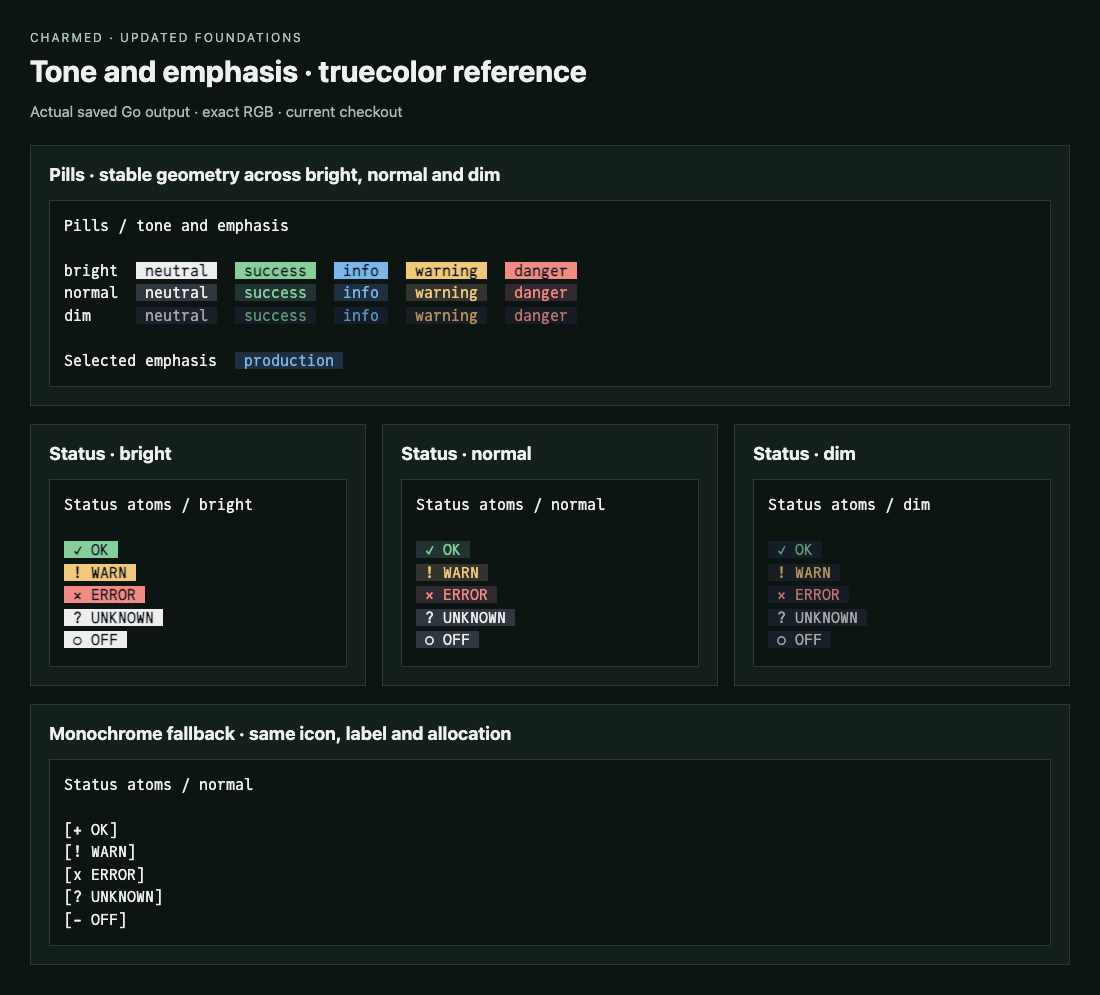
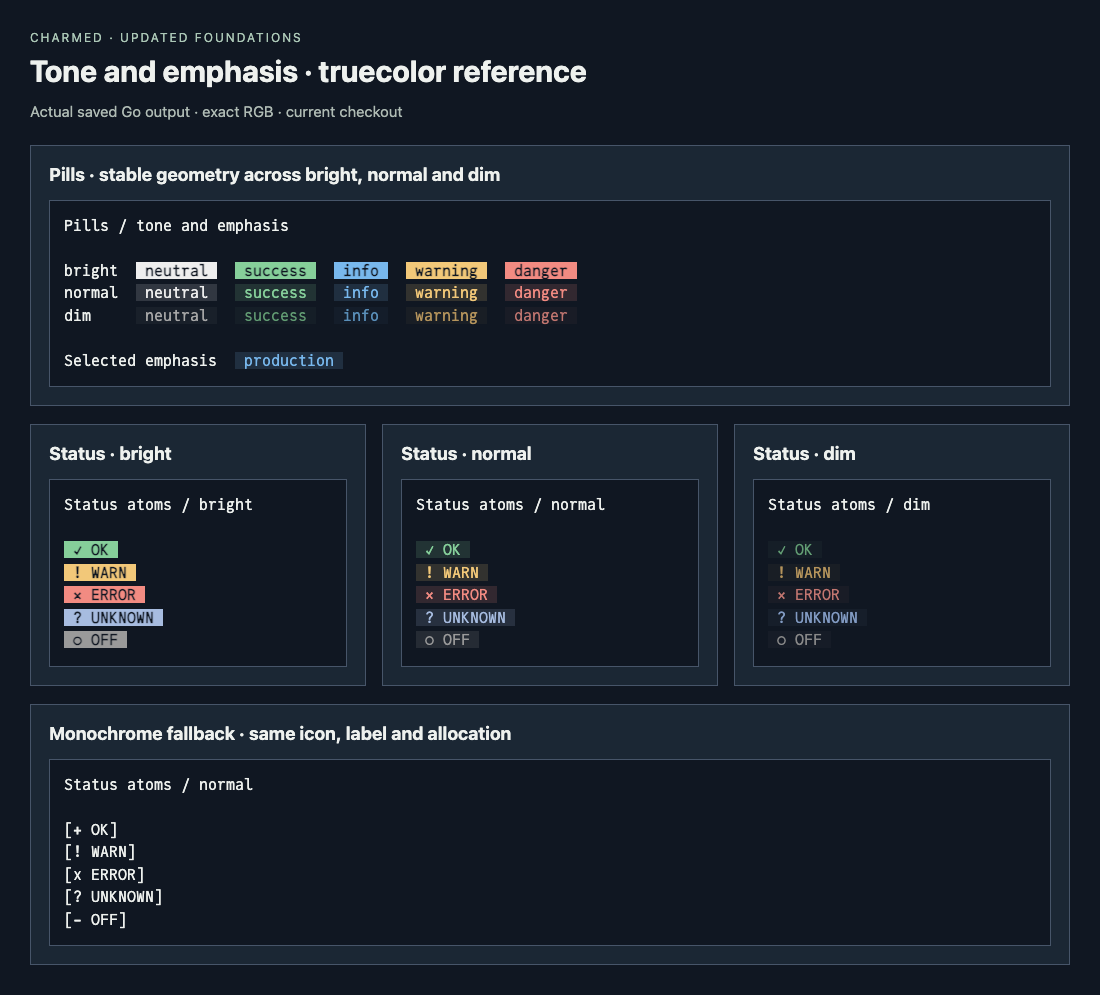
fix(feedback): distinguish unknown and off
Use cool slate-blue tokens for uncertainty and achromatic gray tokens for inactivity across bright, normal and dim status pills. Preserve existing glyphs, labels, spacing and custom-theme fallbacks.

Detected-By: user

Changed region(s): [[0.0309, 0.592, 0.1545, 0.6543], [0.4018, 0.592, 0.4636, 0.6543], [0.7418, 0.592, 0.7727, 0.6231]]

diff --git a/theme/theme.go b/theme/theme.go
@@ -24,6 +24,7 @@ type Theme struct {
 	Background, Surface, Foreground, Muted, Border, Accent    color.Color
 	SelectionBackground                                       color.Color
 	Success, Info, Warning, Danger                            color.Color
+	Unknown, Inactive, DimUnknown, DimInactive                color.Color
 	DimForeground, DimSuccess, DimInfo, DimWarning, DimDanger color.Color
 	Series                                                    []color.Color
 }
@@ -38,6 +39,8 @@ func New(mode Mode) Theme {
 		t.Success, t.Warning, t.Danger = hex("#166534"), hex("#92400e"), hex("#b91c1c")
 		t.Info = hex("#1d4ed8")
 		t.SelectionBackground = hex("#d1e8e3")
+		t.Unknown, t.Inactive = hex("#475e86"), hex("#626262")
+		t.DimUnknown, t.DimInactive = hex("#5c6e8a"), hex("#666666")
 		t.DimForeground, t.DimSuccess, t.DimInfo, t.DimWarning, t.DimDanger = hex("#526176"), hex("#477451"), hex("#526fa8"), hex("#8a6841"), hex("#a05b5b")
 		t.Series = colors("#6654ad", "#3568b0", "#a3497f", "#8c663d", "#575ba6")
 	case Contrast:
@@ -47,6 +50,8 @@ func New(mode Mode) Theme {
 		t.Success, t.Warning, t.Danger = hex("#86efac"), hex("#fde047"), hex("#fca5a5")
 		t.Info = hex("#93c5fd")
 		t.SelectionBackground = hex("#1c4245")
+		t.Unknown, t.Inactive = hex("#b7c9ed"), hex("#b0b0b0")
+		t.DimUnknown, t.DimInactive = hex("#8da4cb"), hex("#929292")
 		t.DimForeground, t.DimSuccess, t.DimInfo, t.DimWarning, t.DimDanger = hex("#c0c0c0"), hex("#6cbe80"), hex("#739ac7"), hex("#c5b75a"), hex("#d48282")
 		t.Series = colors("#c8b4ff", "#9ac2ff", "#f4b0d8", "#e8c49a", "#abb6ff")
 	case Mono:
@@ -61,6 +66,8 @@ func New(mode Mode) Theme {
 		t.Success, t.Warning, t.Danger = hex("#86cf9a"), hex("#f2c879"), hex("#f28b82")
 		t.Info = hex("#78b8ed")
 		t.SelectionBackground = hex("#24433f")
+		t.Unknown, t.Inactive = hex("#a7bce0"), hex("#9a9a9a")
+		t.DimUnknown, t.DimInactive = hex("#829bc3"), hex("#898989")
 		t.DimForeground, t.DimSuccess, t.DimInfo, t.DimWarning, t.DimDanger = hex("#a8a8a8"), hex("#629c73"), hex("#5a8fb9"), hex("#b5945c"), hex("#c17670")
 		t.Series = colors("#b9a7f5", "#87b5f9", "#e49ac2", "#d7b58b", "#8f9de8")
 	}

diff --git a/feedback/status_test.go b/feedback/status_test.go
@@ -1,9 +1,11 @@
 package feedback_test
 
 import (
+	"image/color"
 	"strings"
 	"testing"
 
+	uv "github.com/charmbracelet/ultraviolet"
 	"github.com/charmbracelet/x/ansi"
 	"github.com/lanej/charmed/attention"
 	"github.com/lanej/charmed/feedback"
@@ -29,6 +31,39 @@ func TestStatusAtomsKeepUnavailableAndDisabledDistinct(t *testing.T) {
 		palette := theme.New(mode)
 		if feedback.Attention(attention.Off, palette) != "" || !strings.Contains(ansi.Strip(feedback.Attention(attention.Unknown, palette)), "UNKNOWN") {
 			t.Fatal("off and unknown attention states were conflated")
+		}
+	}
+}
+
+func TestUnknownIsCoolAndOffIsAchromaticAtEveryEmphasis(t *testing.T) {
+	for _, mode := range []theme.Mode{theme.Dark, theme.Light, theme.Contrast} {
+		palette := theme.New(mode)
+
+		for _, emphasis := range []text.Emphasis{text.Bright, text.Normal, text.Dim} {
+			colors := make([]color.Color, 0, 2)
+
+			for _, status := range []feedback.Status{feedback.Unknown, feedback.Off} {
+				cells := uv.NewStyledString(status.View(emphasis, palette)).Lines(ansi.GraphemeWidth)[0]
+				if emphasis == text.Bright {
+					colors = append(colors, cells[1].Style.Bg)
+				} else {
+					colors = append(colors, cells[1].Style.Fg)
+				}
+			}
+
+			if colors[0] == nil || colors[1] == nil {
+				t.Fatalf("%s %s status color disappeared", mode, emphasis)
+			}
+
+			r, _, b, _ := colors[0].RGBA()
+			if b <= r {
+				t.Fatalf("%s %s UNKNOWN lost its cool hue", mode, emphasis)
+			}
+
+			r, g, b, _ := colors[1].RGBA()
+			if r != g || g != b {
+				t.Fatalf("%s %s OFF must remain achromatic", mode, emphasis)
+			}
 		}
 	}
 }

diff --git a/theme/foundations_test.go b/theme/foundations_test.go
@@ -35,7 +35,7 @@ func TestDimTokensRemainReadableAndSeriesDoNotAliasSemanticRoles(t *testing.T) {
 			t.Fatalf("%s selection surface makes nested plain text unreadable", mode)
 		}
 
-		for _, dim := range []color.Color{palette.DimForeground, palette.DimSuccess, palette.DimInfo, palette.DimWarning, palette.DimDanger} {
+		for _, dim := range []color.Color{palette.DimForeground, palette.DimSuccess, palette.DimInfo, palette.DimWarning, palette.DimDanger, palette.DimUnknown, palette.DimInactive} {
 			value := luminance(dim)
 
 			ratio := (max(value, background) + .05) / (min(value, background) + .05)
@@ -45,7 +45,7 @@ func TestDimTokensRemainReadableAndSeriesDoNotAliasSemanticRoles(t *testing.T) {
 		}
 
 		for i, series := range palette.Series {
-			for _, semantic := range []color.Color{palette.Accent, palette.Success, palette.Info, palette.Warning, palette.Danger} {
+			for _, semantic := range []color.Color{palette.Accent, palette.Success, palette.Info, palette.Warning, palette.Danger, palette.Unknown, palette.Inactive} {
 				if color.NRGBAModel.Convert(series) == color.NRGBAModel.Convert(semantic) {
 					t.Fatalf("%s series %d aliases a semantic token", mode, i)
 				}

diff --git a/story/foundations.go b/story/foundations.go
@@ -34,10 +34,14 @@ func themeStory(e Environment) (runtime.Scene, error) {
 	return static(func(size layout.Size) string {
 		t := e.Config.Palette()
 
-		rows := []string{title("Semantic tokens / normal and dim", e), t.Text().Render("Primary content"), t.Subtle().Render("Supporting information"), t.Heading().Render("Accent / interaction"), ""}
+		rows := []string{"Semantic tokens / normal and dim", "", t.Text().Render("Primary content"), t.Subtle().Render("Supporting information"), t.Heading().Render("Accent / interaction"), ""}
 		for _, tone := range []text.Tone{text.Neutral, text.Success, text.Info, text.Warning, text.Danger} {
 			rows = append(rows, text.ToneStyle(tone, text.Normal, t).Render(fmt.Sprintf("%-9s", tone))+"  "+text.ToneStyle(tone, text.Dim, t).Render("dim "+string(tone)))
 		}
+
+		rows = append(rows,
+			t.Text().Foreground(t.Unknown).Render("unknown  ")+"  "+t.Text().Foreground(t.DimUnknown).Render("dim unknown"),
+			t.Text().Foreground(t.Inactive).Render("off      ")+"  "+t.Text().Foreground(t.DimInactive).Render("dim off"))
 
 		rows = append(rows, "", "Categorical data / independent palette")
 

diff --git a/feedback/status.go b/feedback/status.go
@@ -1,6 +1,8 @@
 package feedback
 
 import (
+	"image/color"
+
 	"github.com/lanej/charmed/text"
 	"github.com/lanej/charmed/theme"
 )
@@ -31,11 +33,26 @@ func (s Status) View(emphasis text.Emphasis, t theme.Theme) string {
 		tone = text.Danger
 		glyph = theme.GlyphError
 	case Unknown:
+		t = statusTheme(t, t.Unknown, t.DimUnknown)
 	case Off:
 		glyph = theme.GlyphOff
+		t = statusTheme(t, t.Inactive, t.DimInactive)
 	default:
 		s = Unknown
+		t = statusTheme(t, t.Unknown, t.DimUnknown)
 	}
 
 	return text.Pill(t.Glyph(glyph)+" "+string(s), tone, t, emphasis)
+}
+
+func statusTheme(t theme.Theme, normal, dim color.Color) theme.Theme {
+	if normal != nil {
+		t.Foreground = normal
+	}
+
+	if dim != nil {
+		t.DimForeground = dim
+	}
+
+	return t
 }

diff --git a/docs/foundations.md b/docs/foundations.md
@@ -6,7 +6,7 @@ The default saved frame is the truecolor reference. Separate tabs show narrow, 2
 
 ## Colors and emphasis
 
-Foreground and muted text are neutral. Accent identifies interaction; success, information, warning and danger identify semantic meaning. Categorical series use a separate palette and never alias those interface or status tokens. Series order remains stable across views; labels and matching legend keys retain identity when fallback colors converge.
+Foreground and muted text are neutral. Accent identifies interaction; success, information, warning and danger identify semantic meaning. UNKNOWN uses a cool slate-blue tone for uncertainty; OFF uses achromatic gray for inactivity. Their normal and dim tokens remain separate, while labels and glyphs retain meaning without color. Categorical series use a separate palette and never alias those interface or status tokens. Series order remains stable across views; labels and matching legend keys retain identity when fallback colors converge.
 
 Bright, normal and dim emphasis preserve the label, glyph and cell allocation. Dim uses explicit shades of each semantic hue instead of blending every tone toward gray or relying on the terminal's faint attribute. The built-in dim text tokens meet a 4.5:1 contrast floor against their theme background; native fonts, color profiles and terminal settings still affect appearance. Monochrome keeps labels, glyphs and bright weight; normal and dim may coincide without color.
 
